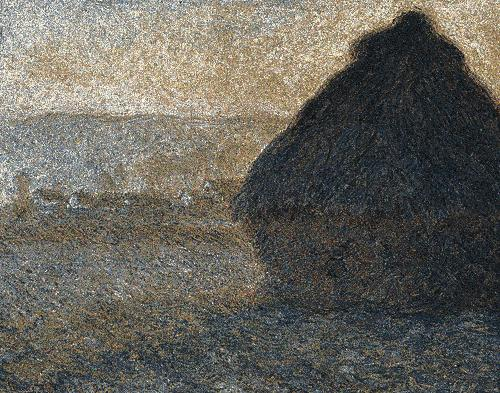
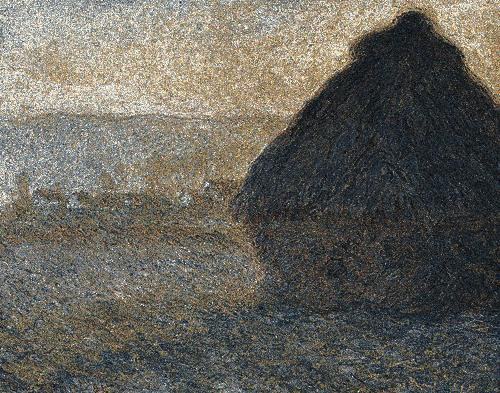
Added new high-res images. Modified large_simpix.py to run 4 times in a row, just going through the 4 transformations (hardcoded). Added comments in README according to submission guidelines.

diff --git a/large_simpix.py b/large_simpix.py
@@ -5,7 +5,9 @@ import math
 from numba import njit
 import time
 
-print('starting code execution timer')
+# STARTING THE FIRST SET A and B
+
+print('starting code execution timer for image A -> B')
 start_time = time.perf_counter()
 
 # Load and preprocess images
@@ -63,7 +65,205 @@ perm = anneal(flat_a, flat_b, perm, T, alpha, iterations)
 # Build final image
 mapped_pixels = flat_a[perm].reshape(pixels_a.shape)
 mapped_image = Image.fromarraymapped_image = Image.fromarray(mapped_pixels.astype('uint8'), 'RGB')
-mapped_image.save("large_annealed_image_numba.jpg")
+mapped_image.save("large_annealed_image_numba_A->B.jpg")
+
+end_time = time.perf_counter()
+elapsed_time = end_time - start_time
+print(f"Elapsed time: {elapsed_time:.4f} seconds")
+
+# Redo for the reverse
+
+print('starting code execution timer for image B -> A')
+start_time = time.perf_counter()
+
+# Load and preprocess images
+image_a = Image.open("large_imageB.jpg").convert("RGB")
+image_b = Image.open("large_imageA.jpg").convert("RGB")
+image_a = image_a.resize(image_b.size)
+
+pixels_a = np.array(image_a)
+pixels_b = np.array(image_b)
+
+flat_a = pixels_a.reshape(-1, 3)
+flat_b = pixels_b.reshape(-1, 3)
+num_pixels = len(flat_a)
+
+perm = np.arange(num_pixels)
+np.random.shuffle(perm)
+
+@njit
+def anneal(flat_a, flat_b, perm, T, alpha, iterations):
+    num_pixels = len(flat_a)
+    current_cost = np.sum((flat_a[perm] - flat_b) ** 2) / num_pixels
+
+    for i in range(iterations):
+        idx1 = np.random.randint(0, num_pixels)
+        idx2 = np.random.randint(0, num_pixels)
+
+        old_cost = (np.sum((flat_a[perm[idx1]] - flat_b[idx1]) ** 2) +
+                    np.sum((flat_a[perm[idx2]] - flat_b[idx2]) ** 2)) / num_pixels
+
+        perm[idx1], perm[idx2] = perm[idx2], perm[idx1]
+
+        new_cost = (np.sum((flat_a[perm[idx1]] - flat_b[idx1]) ** 2) +
+                    np.sum((flat_a[perm[idx2]] - flat_b[idx2]) ** 2)) / num_pixels
+
+        delta = new_cost - old_cost
+        arg = -delta / T
+
+        # Overflow-safe acceptance
+        if delta < 0 or (arg > -700 and np.random.random() < math.exp(arg)):
+            current_cost += delta
+        else:
+            perm[idx1], perm[idx2] = perm[idx2], perm[idx1]
+
+        T *= alpha
+
+    return perm
+
+# Run annealing
+T = 4000.0
+alpha = 0.999
+iterations = 200000000
+
+perm = anneal(flat_a, flat_b, perm, T, alpha, iterations)
+
+# Build final image
+mapped_pixels = flat_a[perm].reshape(pixels_a.shape)
+mapped_image = Image.fromarraymapped_image = Image.fromarray(mapped_pixels.astype('uint8'), 'RGB')
+mapped_image.save("large_annealed_image_numba_B->A.jpg")
+
+end_time = time.perf_counter()
+elapsed_time = end_time - start_time
+print(f"Elapsed time: {elapsed_time:.4f} seconds")
+
+# STARTING THE SECOND SET C AND D
+
+print('starting code execution timer for image A -> B')
+start_time = time.perf_counter()
+
+# Load and preprocess images
+image_a = Image.open("large_imageC.jpg").convert("RGB")
+image_b = Image.open("large_imageD.jpg").convert("RGB")
+image_a = image_a.resize(image_b.size)
+
+pixels_a = np.array(image_a)
+pixels_b = np.array(image_b)
+
+flat_a = pixels_a.reshape(-1, 3)
+flat_b = pixels_b.reshape(-1, 3)
+num_pixels = len(flat_a)
+
+perm = np.arange(num_pixels)
+np.random.shuffle(perm)
+
+@njit
+def anneal(flat_a, flat_b, perm, T, alpha, iterations):
+    num_pixels = len(flat_a)
+    current_cost = np.sum((flat_a[perm] - flat_b) ** 2) / num_pixels
+
+    for i in range(iterations):
+        idx1 = np.random.randint(0, num_pixels)
+        idx2 = np.random.randint(0, num_pixels)
+
+        old_cost = (np.sum((flat_a[perm[idx1]] - flat_b[idx1]) ** 2) +
+                    np.sum((flat_a[perm[idx2]] - flat_b[idx2]) ** 2)) / num_pixels
+
+        perm[idx1], perm[idx2] = perm[idx2], perm[idx1]
+
+        new_cost = (np.sum((flat_a[perm[idx1]] - flat_b[idx1]) ** 2) +
+                    np.sum((flat_a[perm[idx2]] - flat_b[idx2]) ** 2)) / num_pixels
+
+        delta = new_cost - old_cost
+        arg = -delta / T
+
+        # Overflow-safe acceptance
+        if delta < 0 or (arg > -700 and np.random.random() < math.exp(arg)):
+            current_cost += delta
+        else:
+            perm[idx1], perm[idx2] = perm[idx2], perm[idx1]
+
+        T *= alpha
+
+    return perm
+
+# Run annealing
+T = 4000.0
+alpha = 0.999
+iterations = 200000000
+
+perm = anneal(flat_a, flat_b, perm, T, alpha, iterations)
+
+# Build final image
+mapped_pixels = flat_a[perm].reshape(pixels_a.shape)
+mapped_image = Image.fromarraymapped_image = Image.fromarray(mapped_pixels.astype('uint8'), 'RGB')
+mapped_image.save("large_annealed_image_numba_C->D.jpg")
+
+end_time = time.perf_counter()
+elapsed_time = end_time - start_time
+print(f"Elapsed time: {elapsed_time:.4f} seconds")
+
+# SECOND SET STARTING NOW
+
+print('starting code execution timer for image B -> A')
+start_time = time.perf_counter()
+
+# Load and preprocess images
+image_a = Image.open("large_imageD.jpg").convert("RGB")
+image_b = Image.open("large_imageC.jpg").convert("RGB")
+image_a = image_a.resize(image_b.size)
+
+pixels_a = np.array(image_a)
+pixels_b = np.array(image_b)
+
+flat_a = pixels_a.reshape(-1, 3)
+flat_b = pixels_b.reshape(-1, 3)
+num_pixels = len(flat_a)
+
+perm = np.arange(num_pixels)
+np.random.shuffle(perm)
+
+@njit
+def anneal(flat_a, flat_b, perm, T, alpha, iterations):
+    num_pixels = len(flat_a)
+    current_cost = np.sum((flat_a[perm] - flat_b) ** 2) / num_pixels
+
+    for i in range(iterations):
+        idx1 = np.random.randint(0, num_pixels)
+        idx2 = np.random.randint(0, num_pixels)
+
+        old_cost = (np.sum((flat_a[perm[idx1]] - flat_b[idx1]) ** 2) +
+                    np.sum((flat_a[perm[idx2]] - flat_b[idx2]) ** 2)) / num_pixels
+
+        perm[idx1], perm[idx2] = perm[idx2], perm[idx1]
+
+        new_cost = (np.sum((flat_a[perm[idx1]] - flat_b[idx1]) ** 2) +
+                    np.sum((flat_a[perm[idx2]] - flat_b[idx2]) ** 2)) / num_pixels
+
+        delta = new_cost - old_cost
+        arg = -delta / T
+
+        # Overflow-safe acceptance
+        if delta < 0 or (arg > -700 and np.random.random() < math.exp(arg)):
+            current_cost += delta
+        else:
+            perm[idx1], perm[idx2] = perm[idx2], perm[idx1]
+
+        T *= alpha
+
+    return perm
+
+# Run annealing
+T = 4000.0
+alpha = 0.999
+iterations = 200000000
+
+perm = anneal(flat_a, flat_b, perm, T, alpha, iterations)
+
+# Build final image
+mapped_pixels = flat_a[perm].reshape(pixels_a.shape)
+mapped_image = Image.fromarraymapped_image = Image.fromarray(mapped_pixels.astype('uint8'), 'RGB')
+mapped_image.save("large_annealed_image_numba_D->C.jpg")
 
 end_time = time.perf_counter()
 elapsed_time = end_time - start_time

diff --git a/README.md b/README.md
@@ -11,17 +11,15 @@ Python starter code
 
 Usage: simapix_start image1 image2 <output=out.png>
 
+### Taylor's work
+
 Here's my comments on the solution.
 
-Well, my salesman code is kinda terrible, but here's what AI said for my simpix code!
+In the simpix folder, I've laid out a few images. My first two are from the Impressionism Wikipedia page and are named imageA.jpg, large_imageA.jpg, imageB.jpg, and large_imageB.jpg. The imageX.jpg are pretty small (500 x 400 ish), but the large_imageX.jpg are full size (2200 x 1639 and 4719 x 3713). I also have a second set of images I pulled from the National Gallery of Art's free download site (I had no idea this existed until starting this project!). Those are called large_imageC.jpg and large_imageD.jpg, and their sizes are (4000 x 3000 ish).
 
-My images are from Impressionism. The small versions are called imageA.jpg and imageB.jpg. They are pretty small (500 x 393).
+The two codes (simpix.py and large_simpix.py) are mostly identical. simpix.py is what you should run first, just to check that all the code is working as expected. It only operates on the small images imageA.jpg and imageB.jpg. To make large_simpix.py, all I changed was the names of the input and output files and I made it run hotter for longer, so that it could actually converge for the larger images. I also hardcoded in the other images, so this code is just copy-pasted 4 times in a row!
 
-I also tried for full-size versions, called large_imageA.jpg and large_imageB.jpg. They're quite large at 2200x1639 and 4719x3713, respectively.
-
-The two codes (simpix.py and large_simpix.py) are mostly identical. All I changed was the names of the input and output files and I made the large_simpix.py version run hotter for longer, so that it could actually converge.
-
-My results are called annealed_image_numba.jpg and large_annealed_image_numba.jpg.
+The results of simpix.py are called annealed_image_numba.jpg and the results of large_simpix.py are called large_annealed_image_numba_A->B, ...B->A, ...C->D, ...D->C.jpg. These just represent the four transformations we did in this assignment.
 
 How to run my code:
 
@@ -29,8 +27,16 @@ First, enter the phys56xx environment.
 
 Then, run the following commands:
 
+For the short version (2.1 s runtime approximately with 4 cores and 16 Gb ram on Rivanna):
+
 python simpix.py
+
+For the large version (8 min runtime approximately with 4 cores and 16 Gb ram on Rivanna): 
 
 python large_simpix.py
 
-They run pretty fast! Simpix takes 1.9 s and large simpix takes 119 s.
+They run pretty fast! Here, I'll just write my results verbatim:
+
+simpix: 2.1 s
+
+large_simpix: 118.9 s, 108.1 s, 114.3 s, 114.5 s.
